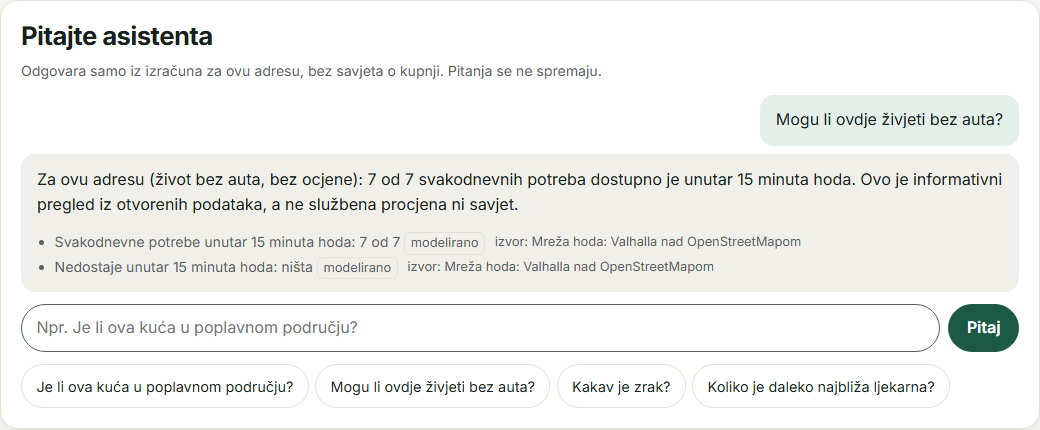
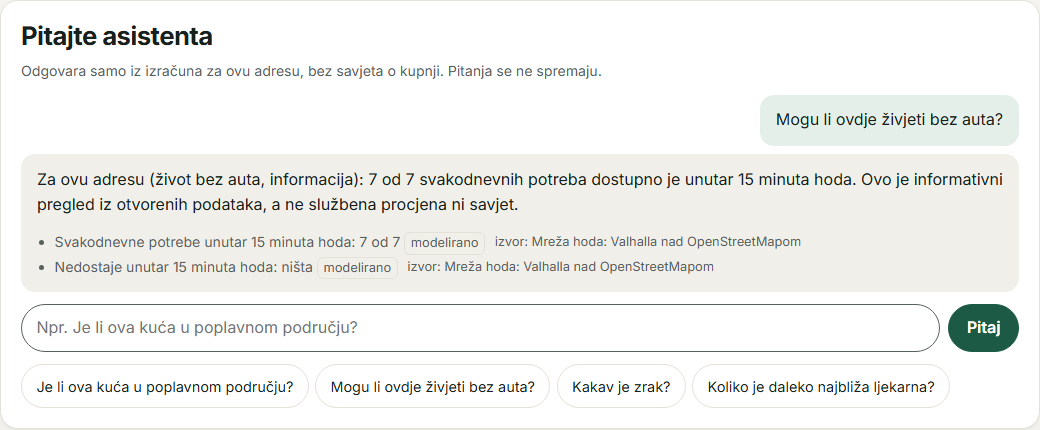
feat: neutral 'Informacija' status instead of 'Bez ocjene'

Changed region(s): [[0.2462, 0.393, 0.9846, 0.4535]]

diff --git a/frontend/src/pages/AboutPage.tsx b/frontend/src/pages/AboutPage.tsx
@@ -90,7 +90,7 @@ export function AboutPage() {
                   (OpenStreetMap).
                 </td>
                 <td>
-                  Bez ocjene. Strateške karte buke EEA-e nisu otvorene licence pa se samo
+                  Informacija (nema službenog praga). Strateške karte buke EEA-e nisu otvorene licence pa se samo
                   povezuju. Smjernica WHO-a (2018.): cestovni promet ispod 53 dB Lden.
                 </td>
               </tr>
@@ -100,12 +100,12 @@ export function AboutPage() {
                   Opožarene površine u krugu od 2 km od 2016. iz europskog sustava EFFIS
                   (satelitsko kartiranje).
                 </td>
-                <td>Bez ocjene. Prošli požari pokazuju izloženost, a ne predviđaju buduće.</td>
+                <td>Informacija (nema službenog praga). Prošli požari pokazuju izloženost, a ne predviđaju buduće.</td>
               </tr>
               <tr>
                 <th scope="row">Sunce na krovu</th>
                 <td>JRC PVGIS 5.3: godišnja proizvodnja za 1 kW snage uz optimalni nagib i 14 % gubitaka.</td>
-                <td>Bez ocjene.</td>
+                <td>Informacija (nema službenog praga).</td>
               </tr>
               <tr>
                 <th scope="row">Život bez auta</th>
@@ -113,7 +113,7 @@ export function AboutPage() {
                   Koliko od sedam svakodnevnih potreba je unutar 15 minuta hoda po mreži ulica
                   (Valhalla nad OpenStreetMapom, 4,5 km/h).
                 </td>
-                <td>Bez ocjene; prikazuje se „X od 7” i što nedostaje.</td>
+                <td>Informacija; prikazuje se „X od 7” i što nedostaje.</td>
               </tr>
               <tr>
                 <th scope="row">Javni prijevoz</th>
@@ -121,7 +121,7 @@ export function AboutPage() {
                   Stajališta unutar 10 minuta hoda; prosječan broj polazaka na sat od 6 do 20 sati
                   radnim danom iz voznih redova ZET-a, HŽPP-a i Autotroleja.
                 </td>
-                <td>Bez ocjene. Drugdje stajališta iz OpenStreetMapa „bez voznog reda”.</td>
+                <td>Informacija. Drugdje stajališta iz OpenStreetMapa „bez voznog reda”.</td>
               </tr>
             </tbody>
           </table>

diff --git a/frontend/src/index.css b/frontend/src/index.css
@@ -674,9 +674,14 @@ select {
   background: var(--bad-bg);
 }
 
+/* "Informacija": a fact without a sourced threshold, deliberately neutral. */
 .status-info {
-  color: var(--info);
-  background: var(--info-bg);
+  color: var(--muted);
+  background: var(--surface-2);
+}
+
+.status-info::before {
+  display: none;
 }
 
 .status-no_data {

diff --git a/backend/analysis/status.py b/backend/analysis/status.py
@@ -9,7 +9,7 @@ STATUS_LABELS: dict[Status, str] = {
     "warning": "Upozorenje",
     "bad": "Loše",
     "no_data": "Nema podataka",
-    "info": "Bez ocjene",
+    "info": "Informacija",
 }
 
 

diff --git a/docs/METODOLOGIJA.md b/docs/METODOLOGIJA.md
@@ -5,7 +5,7 @@ Ovaj dokument opisuje kako se računa svaka kategorija pregleda, koji se pragovi
 ## Načela
 
 1. **Apsolutno značenje ispred relativnog ranga.** Pregled kaže, na primjer, „lokacija je u modeliranom poplavnom području za povratno razdoblje od 100 godina”, a ne „rizik iznad prosjeka”.
-2. **Svaka kategorija ima status** prema pragu s izvorom: dobro, upozorenje, loše ili nema podataka. Kategorije za koje ne postoji općeprihvaćen prag (sunce, buka kao procjena, život bez auta, javni prijevoz, svakodnevni život) imaju status „Bez ocjene” i prikazuju samo podatak. „Nema podataka” se uvijek prikazuje; kategorija se nikad tiho ne izostavlja.
+2. **Svaka kategorija ima status** prema pragu s izvorom: dobro, upozorenje, loše ili nema podataka. Kategorije za koje ne postoji općeprihvaćen prag (sunce, buka kao procjena, život bez auta, javni prijevoz, svakodnevni život) imaju status „Informacija” i prikazuju samo podatak, bez ocjene. „Nema podataka” se uvijek prikazuje; kategorija se nikad tiho ne izostavlja.
 3. **Nema skupne ocjene.** Kategorije se ne zbrajaju ni ne ponderiraju. Profil korisnika (obitelj s djecom, umirovljenik, student, rad od kuće, vlastiti) mijenja samo redoslijed i naglasak kartica, nikad vrijednosti ni statuse.
 4. **Svaka vrijednost ima izvor, datum preuzimanja i vrstu.** Vrste su:
    - `measured` (izmjereno): vrijednost iz mjerenja, voznog reda ili službenog registra;
@@ -69,7 +69,7 @@ Ovaj dokument opisuje kako se računa svaka kategorija pregleda, koji se pragovi
 
 - **Podaci:** autoceste, brze, glavne i važnije ceste (`highway=motorway|trunk|primary|secondary`) i pruge (`railway=rail`, bez sporednih kolosijeka) iz OpenStreetMapa.
 - **Izračun:** zračna udaljenost do najbliže ceste i najbliže pruge, do 2 km.
-- **Status:** „Bez ocjene”, vrsta „procjena”. Za udaljenost od prometnice ne postoji prag s izvorom koji bi je pretvorio u razinu buke.
+- **Status:** „Informacija”, vrsta „procjena”. Za udaljenost od prometnice ne postoji prag s izvorom koji bi je pretvorio u razinu buke.
 - **Kontekst:** smjernice WHO-a za buku okoliša u europskoj regiji (2018.) preporučuju cestovni promet ispod 53 dB Lden i 45 dB Lnight (https://iris.who.int/handle/10665/279952). Strateške karte buke EEA-e nemaju otvorenu licencu, pa ih samo povezujemo.
 - Zašto i `secondary`: vidi [ODLUKE.md](ODLUKE.md).
 
@@ -77,14 +77,14 @@ Ovaj dokument opisuje kako se računa svaka kategorija pregleda, koji se pragovi
 
 - **Podaci:** EFFIS (Copernicus European Forest Fire Information System), opožarene površine kartirane iz satelitskih snimaka MODIS, sloj `ms:modis.ba.poly` preuzet preko javnog WFS-a za Hrvatsku (1.030 površina od 2016.). Skupno preuzimanje traži račun, a WFS ne.
 - **Izračun:** opožarene površine čiji poligon dodiruje krug od 2 km oko točke: broj, godine, najbliža (udaljenost do ruba) i najveća (ha).
-- **Status:** „Bez ocjene”, jer za broj prošlih požara ne postoji prag s izvorom. Prošli požari pokazuju izloženost, a ne predviđaju buduće.
+- **Status:** „Informacija”, jer za broj prošlih požara ne postoji prag s izvorom. Prošli požari pokazuju izloženost, a ne predviđaju buduće.
 - **Ograničenja:** satelitsko kartiranje ne bilježi sve manje požare; podaci počinju 2016.
 
 ## Sunce na krovu
 
 - **Podaci:** JRC PVGIS 5.3, `PVcalc`, snaga 1 kWp, gubici sustava 14 % (zadana vrijednost PVGIS-a), optimalni nagib i azimut, baza zračenja PVGIS-SARAH3 (2005.–2023.).
 - **Vrijednost:** `E_y`, prosječna godišnja proizvodnja u kWh za 1 kWp.
-- **Status:** „Bez ocjene”.
+- **Status:** „Informacija”.
 - **Ograničenja:** ne uzima u obzir sjenu susjednih zgrada i drveća ni stvarni nagib i orijentaciju krova. Rezultat se predmemorira po koordinatama zaokruženima na 0,01°.
 
 ## Mreža hoda

diff --git a/docs/PRISTUPACNOST.md b/docs/PRISTUPACNOST.md
@@ -28,7 +28,7 @@ Iz axe provjere izuzet je samo `canvas` karte (MapLibre), jer je karta slika bez
 | Pretraga adrese | kombinirani okvir prema uzorku WAI-ARIA 1.2 (`role="combobox"`, `aria-expanded`, `aria-activedescendant`, `listbox`/`option`); broj prijedloga najavljuje se u području `aria-live` |
 | Ciljevi dodira | najmanje 44 × 44 px (gumbi, poveznice u izborniku, odabir profila, prijedlozi) |
 | Kontrast | boje teksta i statusa provjerene axe-om u obje teme (≥ 4,5:1) |
-| Status nikad samo bojom | svaka oznaka statusa ima riječ („Dobro”, „Upozorenje”, „Loše”, „Nema podataka”, „Bez ocjene”) i točku u boji |
+| Status nikad samo bojom | svaka oznaka statusa ima riječ („Dobro”, „Upozorenje”, „Loše”, „Nema podataka”, „Informacija”); ocjene imaju i točku u boji |
 | Karta | nije jedini nositelj informacije: uz kartu je tekstualni popis onoga što je na 5, 10 i 15 minuta hoda i legenda, a ispod tablica najbližih ustanova; `<figure>` s opisom za čitače zaslona |
 | Tablice | `<caption>`, zaglavlja s `scope` |
 | Tamna tema | gumb „Tamna tema” (`aria-pressed`); početno prema postavci sustava (`prefers-color-scheme`); izbor se pamti u pregledniku |

diff --git a/docs/ODLUKE.md b/docs/ODLUKE.md
@@ -23,3 +23,4 @@ Jedna odluka po retku: datum, odluka, razlog.
 - 2026-11-03: Pristupni zapisi su isključeni (uvicorn `--no-access-log`, Caddy `output discard`). Razlog: koordinate u upitu otkrivaju adresu, a CLAUDE.md zabranjuje spremanje adresa.
 - 2026-11-03: Požari (P2) iz EFFIS-ova javnog WFS-a umjesto skupnog preuzimanja. Razlog: skupno preuzimanje traži račun (HTTP 403), a CLAUDE.md dopušta požare samo bez računa.
 - 2026-11-03: Redizajn sučelja: izvor, datum i vrsta svake vrijednosti prikazuju se na klik („Detalji i izvor”) umjesto stalno, a popis izvora izvještaja je sklopljen na dnu. Ikone iz `lucide-react` (ISC). Razlog: čitljivost za običnog korisnika; provenijencija ostaje dostupna uz svaku vrijednost (pravilo 2).
+- 2026-11-03: Status bez praga s izvorom preimenovan iz „Bez ocjene” u „Informacija” i prikazan neutralno (sivo, bez točke u boji). Razlog: „Bez ocjene” je djelovalo kao da nešto nedostaje; značenje i pravila 4 i 12 ostaju ista.

diff --git a/PROGRESS.md b/PROGRESS.md
@@ -33,7 +33,7 @@ Zadnje ažurirano: 2026-11-03 10:30
 - [x] **Revizija README-a:** tvrdnje usklađene s kodom i podacima; primjer sa stvarnim izračunom (Vinkovci i Nijemci); stvarni nalazi o kvaliteti i ograničenja; `scripts/check_readme.py` prolazi.
 
 ## P2
-- [x] **Požari:** EFFIS opožarene površine preko javnog WFS-a bez računa (1.030 površina od 2016.), kategorija „Požari raslinja” (krug od 2 km, bez ocjene).
+- [x] **Požari:** EFFIS opožarene površine preko javnog WFS-a bez računa (1.030 površina od 2016.), kategorija „Požari raslinja” (krug od 2 km, status „Informacija”).
 - [ ] **Procjena auto-kilometara i CO2:** samo s citiranim faktorima emisije i jasno opisanim pretpostavkama.
 - [ ] **Izvoz PDF-a** izvještaja.
 
